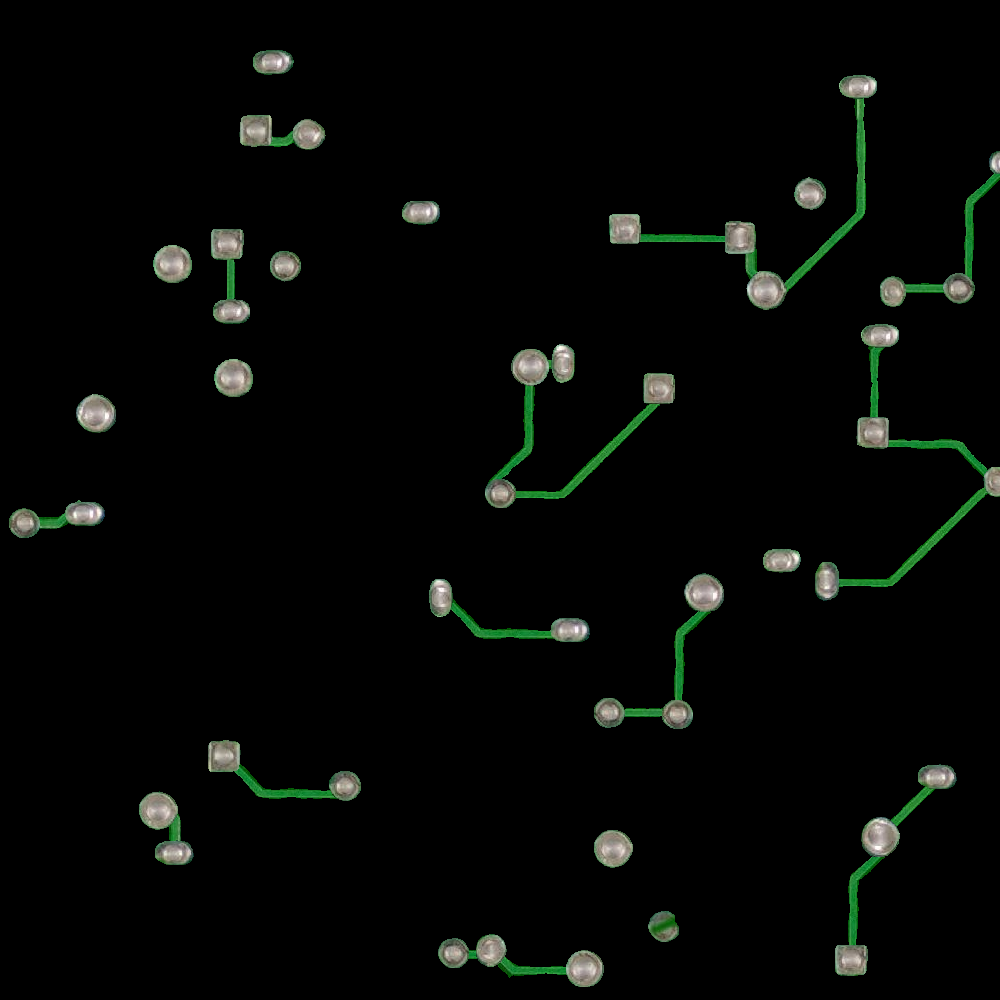
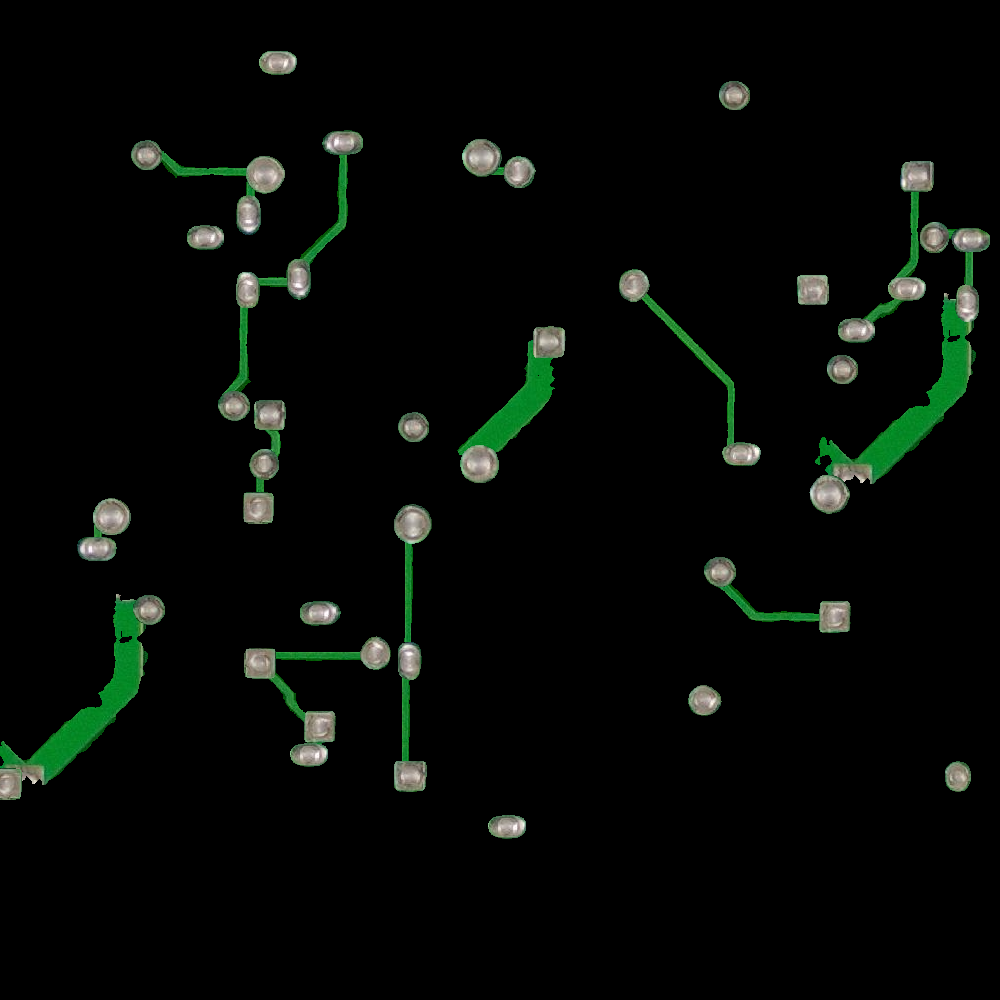
added cv2 pad shape classifier

diff --git a/pad_classifier.py b/pad_classifier.py
@@ -1,0 +1,67 @@
+import cv2
+import numpy as np
+
+def classify_pad_shape(mask: np.ndarray):
+    if mask is None:
+        return "unknown", {}
+
+    bin_mask = (mask > 0).astype(np.uint8)
+
+    contours, _ = cv2.findContours(bin_mask, cv2.RETR_EXTERNAL, cv2.CHAIN_APPROX_SIMPLE)
+    if not contours:
+        return "unknown", {}
+
+    cnt = max(contours, key=cv2.contourArea)
+
+    area = float(cv2.contourArea(cnt))
+    perimeter = float(cv2.arcLength(cnt, True))
+    if perimeter <= 1e-6 or area <= 1e-6:
+        return "unknown", {}
+
+    x, y, w, h = cv2.boundingRect(cnt)
+    aspect_ratio = (w / h) if h > 0 else 0.0
+
+    circularity = 4.0 * np.pi * area / (perimeter * perimeter)
+    extent = area / float(w * h) if (w * h) > 0 else 0.0
+
+    # --- (опционально) сгладить шум контура через approxPoly ---
+    eps = 0.02 * perimeter
+    approx = cv2.approxPolyDP(cnt, eps, True)
+    n_vertices = len(approx)
+
+    # =========================
+    # КЛАССИФИКАЦИЯ
+    # =========================
+
+    # 1) SQUARE/RECT-like: почти квадрат по bbox + высокая "заполненность"
+    #    (скруглённые углы всё равно дадут высокий extent)
+    if 0.85 <= aspect_ratio <= 1.15 and extent >= 0.84:
+        shape = "square"
+
+    # 2) OVAL: сильно вытянуто
+    elif aspect_ratio < 0.75 or aspect_ratio > 1.33:
+        shape = "oval"
+
+    else:
+        # 3) CIRCLE: почти квадрат по bbox, но extent близок к кругу (~0.785)
+        #    и достаточно круглый по circularity.
+        #    Верхнюю границу extent ставим, чтобы отрезать "скруглённые квадраты".
+        if (0.85 <= aspect_ratio <= 1.15
+            and circularity >= 0.82
+            and extent <= 0.83
+            and n_vertices >= 6):   # у круга/овала вершин обычно больше
+            shape = "circle"
+        else:
+            shape = "oval"
+
+    metrics = {
+        "area": area,
+        "perimeter": perimeter,
+        "aspect_ratio": aspect_ratio,
+        "circularity": circularity,
+        "extent": extent,
+        "n_vertices": n_vertices,
+        "bbox_w": w,
+        "bbox_h": h,
+    }
+    return shape, metrics

diff --git a/generate_pcb.py b/generate_pcb.py
@@ -7,6 +7,7 @@ from classes import *
 from placement_engine import *
 from utils import * 
 from generator import generate_layout_by_coverage, generate_layout_by_path_plan, canvas_coverage
+from pad_classifier import classify_pad_shape
 
 def main():
     # np,random.seed(20)
